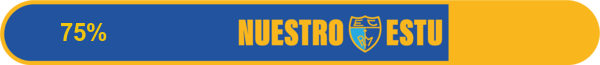
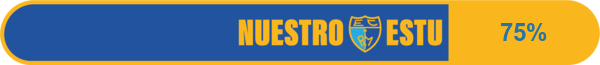
75%

Changed region(s): [[0.09, 0.3385, 0.18, 0.6462], [0.81, 0.3385, 0.93, 0.6462]]

diff --git a/public/noticias/encuesta/index.html b/public/noticias/encuesta/index.html
@@ -144,7 +144,7 @@
 <p>Nos interesa su opinión; hemos preparado una rapidísima encuesta. Le llevará muy poco tiempo contestarla y nos comprometemos a trasladar su resultado a la directiva.</p>
 <p>¡Ayúdenos a llegar a 1000 repuestas!</p>
 <div class="progressbar">
-<img src=/img/progbar-73.png alt=73% style="max-width: 100%">
+<img src=/img/progbar-75.png alt=75% style="max-width: 100%">
 </div>
 <iframe src="https://docs.google.com/forms/d/e/1FAIpQLSdsSQaVsEkUFBAuhsDd7TpCpMPtx6kA_iZXi_Hk7SD-1lQ00Q/viewform?embedded=true" width="90%" height="600" frameborder="0" marginheight="0" marginwidth="0">Chargement en cours…</iframe>
 </div>

diff --git a/content/noticias/encuesta.md b/content/noticias/encuesta.md
@@ -16,6 +16,6 @@ Nos interesa su opinión; hemos preparado una rapidísima encuesta. Le llevará 
 
 ¡Ayúdenos a llegar a 1000 repuestas!
 
-{{< progressbar src="/img/progbar-73.png" alt="73%" >}}
+{{< progressbar src="/img/progbar-75.png" alt="75%" >}}
 
 {{< survey src="1FAIpQLSdsSQaVsEkUFBAuhsDd7TpCpMPtx6kA_iZXi_Hk7SD-1lQ00Q" width="400" height="4871" >}}
